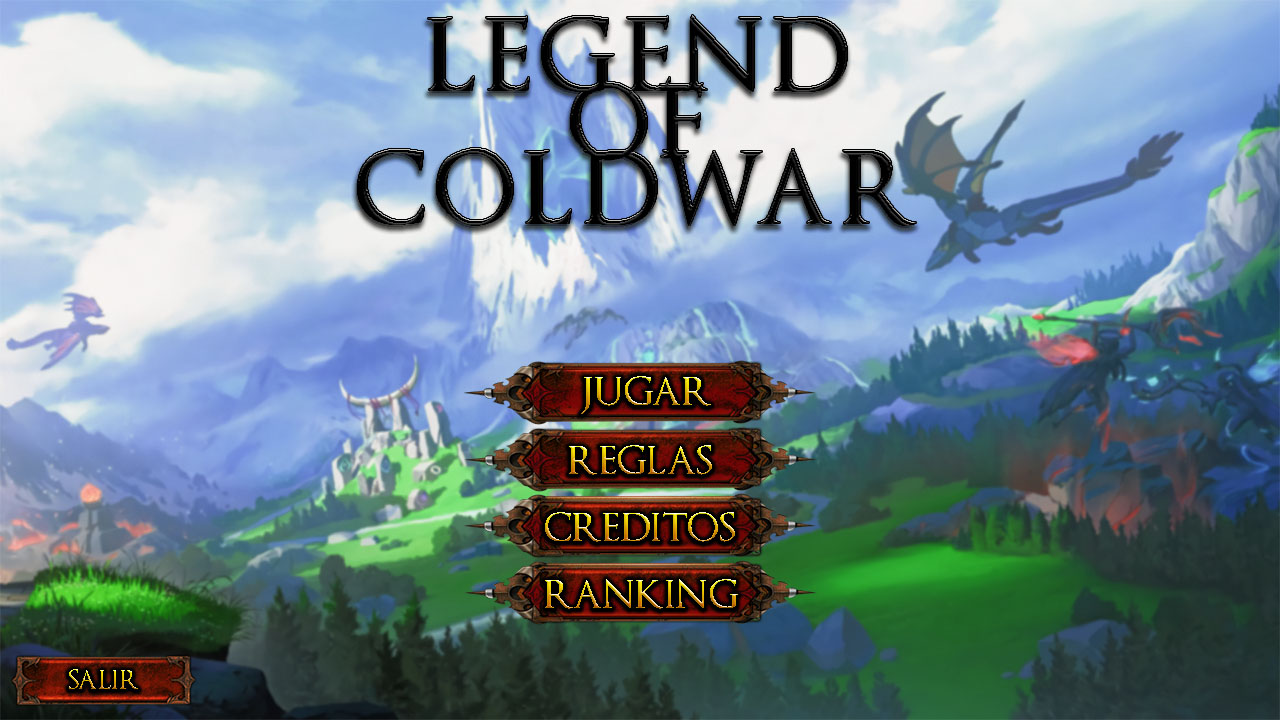
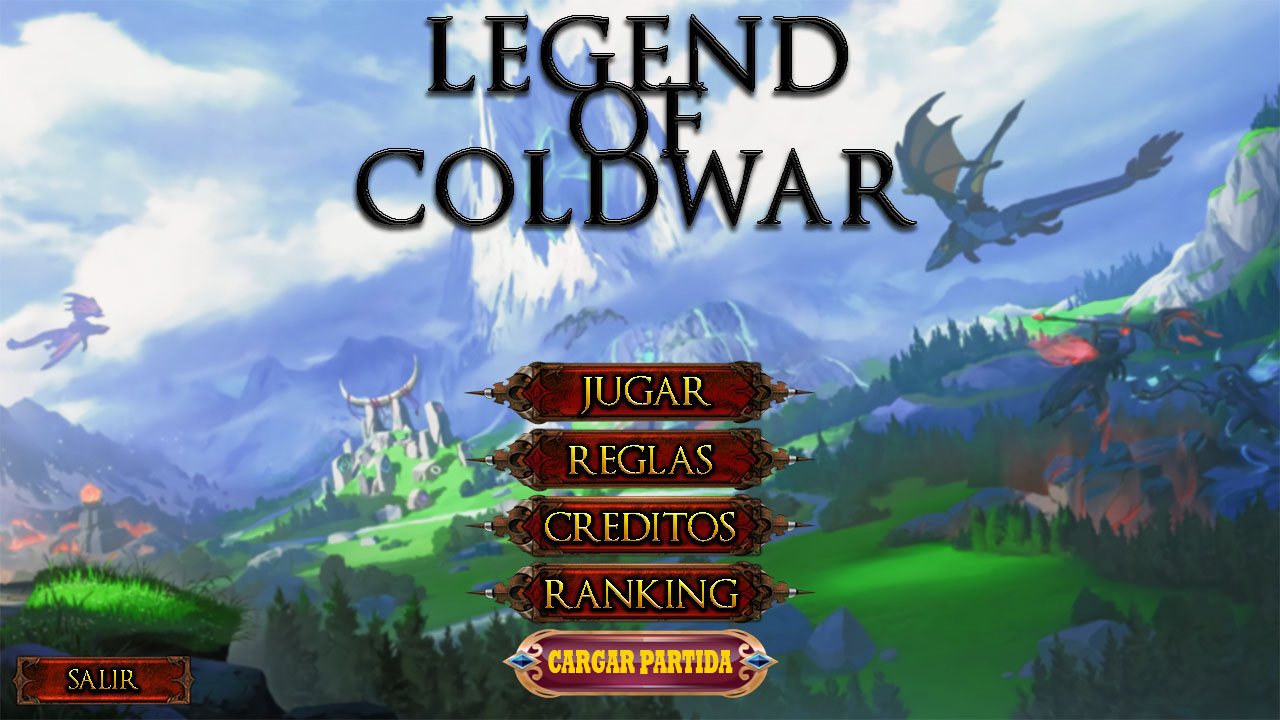
FIN DE LA HISTORIA OF COLDWAR, GRACIAS POR TANTO PERDON POR TAN POCO AMEN

Changed region(s): [[0.375, 0.8556, 0.625, 0.9778]]

diff --git a/src/main/java/swing/Main.java b/src/main/java/swing/Main.java
@@ -131,14 +131,15 @@ jButton5.setIcon(new javax.swing.ImageIcon("src\\main\\java\\img\\musica muteada
         });
         getContentPane().add(jButton6, new org.netbeans.lib.awtextra.AbsoluteConstraints(20, 660, 170, 40));
 
-        jButton7.setText("jButton7");
+        jButton7.setBorder(null);
+        jButton7.setBorderPainted(false);
+        jButton7.setContentAreaFilled(false);
         jButton7.addActionListener(new java.awt.event.ActionListener() {
             public void actionPerformed(java.awt.event.ActionEvent evt) {
                 jButton7ActionPerformed(evt);
-                //volver a montar el objeto planeta y llamar a la funcion iniciarPartida
             }
         });
-        getContentPane().add(jButton7, new org.netbeans.lib.awtextra.AbsoluteConstraints(20, 210, -1, -1));
+        getContentPane().add(jButton7, new org.netbeans.lib.awtextra.AbsoluteConstraints(530, 640, 220, 50));
         getContentPane().add(jLabel3, new org.netbeans.lib.awtextra.AbsoluteConstraints(0, 0, -1, 720));
 
         pack();
@@ -156,6 +157,8 @@ jButton5.setIcon(new javax.swing.ImageIcon("src\\main\\java\\img\\musica muteada
         jButton4.setCursor(Cursor.getPredefinedCursor(Cursor.HAND_CURSOR));
         jButton5.setCursor(Cursor.getPredefinedCursor(Cursor.HAND_CURSOR));
         jButton6.setCursor(Cursor.getPredefinedCursor(Cursor.HAND_CURSOR));
+        jButton7.setCursor(Cursor.getPredefinedCursor(Cursor.HAND_CURSOR));
+        
     }
        
     private void jButton1ActionPerformed(java.awt.event.ActionEvent evt) {//GEN-FIRST:event_jButton1ActionPerformed
@@ -209,15 +212,15 @@ jButton5.setIcon(new javax.swing.ImageIcon("src\\main\\java\\img\\musica muteada
      
         
     String input = (String) JOptionPane.showInputDialog(null, "Escoge una partida.",
-        "Cargar Partida", JOptionPane.QUESTION_MESSAGE, null, // Use
-                                                                        // default                                                             // icon
-        Partidas.toArray(), // Array of choices
-        Partidas.toArray()[0]); // Initial choice
-    System.out.println(input);
+    "Cargar Partida", JOptionPane.QUESTION_MESSAGE, null, Partidas.toArray(),Partidas.toArray()[0]);
+    
+   if (input==null){
+        
+   }else{
     this.setVisible(false);
     ControlPartida ControlPartida= new ControlPartida();
     ConexionBD.getPlaneta(input,ControlPartida.getPartida());
-     
+   }
     }//GEN-LAST:event_jButton7ActionPerformed
 
     /**

diff --git a/src/main/java/swing/ResumenRonda.java b/src/main/java/swing/ResumenRonda.java
@@ -182,6 +182,7 @@ public class ResumenRonda extends javax.swing.JDialog {
            void cursores(){
         
         jButton1.setCursor(Cursor.getPredefinedCursor(Cursor.HAND_CURSOR));
+        jButton2.setCursor(Cursor.getPredefinedCursor(Cursor.HAND_CURSOR));
 
     }
  
